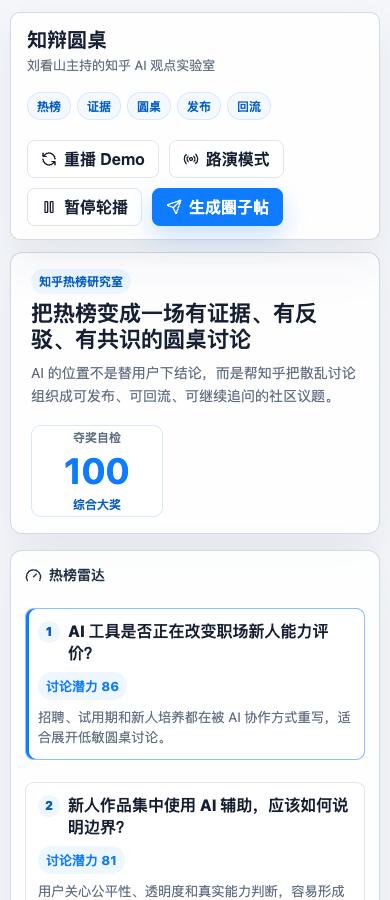
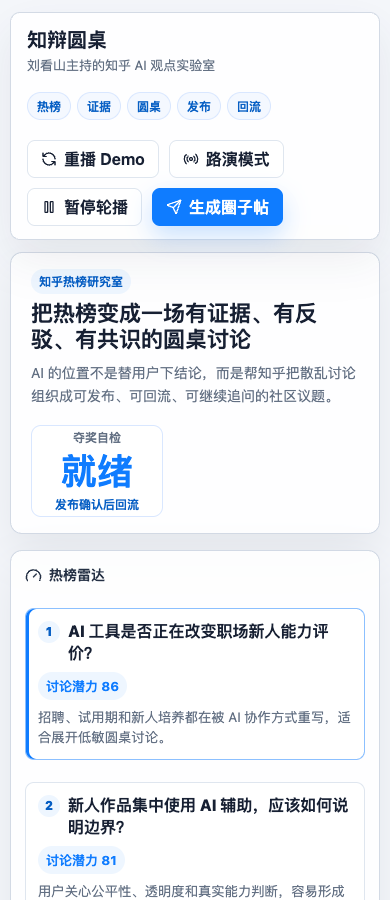
Align publish preview semantics

Changed region(s): [[0.1538, 0.4978, 0.3692, 0.5911]]

diff --git a/src/frontend/main.tsx b/src/frontend/main.tsx
@@ -158,6 +158,10 @@ export function App() {
   }, [data, isStreaming, isPaused]);
 
   const snapshot = data?.snapshot;
+  const readinessValue = !data?.publishResult && snapshot?.publishDraft ? "就绪" : readiness?.report.totalScore ?? "--";
+  const readinessLabel = !data?.publishResult && snapshot?.publishDraft
+    ? "发布确认后回流"
+    : readiness?.report.awardTargets.at(0) ?? "综合大奖";
 
   const confirmAndPublish = React.useCallback(async () => {
     if (!snapshot?.publishDraft) {
@@ -290,8 +294,8 @@ export function App() {
         </div>
         <div className="mission-proof">
           <span>夺奖自检</span>
-          <strong>{readiness?.report.totalScore ?? "--"}</strong>
-          <small>{readiness?.report.awardTargets.at(0) ?? "综合大奖"}</small>
+          <strong>{readinessValue}</strong>
+          <small>{readinessLabel}</small>
         </div>
       </section>
 
@@ -323,7 +327,7 @@ export function App() {
               <span className="stage-kicker">{status}</span>
               <h2>{snapshot?.rewrittenQuestion ?? "正在等待议题重构"}</h2>
             </div>
-            <div className="stage-badge"><Sparkles size={16} /> {snapshot?.stage ?? "radar"}</div>
+            <div className="stage-badge"><Sparkles size={16} /> {stageLabel(snapshot?.stage)}</div>
           </div>
 
           <Roundtable activeSpeaker={active?.speaker ?? "liu"} turns={snapshot?.turns ?? []} />
@@ -408,6 +412,17 @@ function streamLabel(type: string) {
     feedback: "评论回流分析已完成",
   };
   return labels[type] ?? "AI 圆桌运行中";
+}
+
+function stageLabel(stage?: RoundtableSnapshot["stage"]) {
+  const labels: Record<RoundtableSnapshot["stage"], string> = {
+    radar: "热榜雷达",
+    prepare: "议题准备",
+    debate: "圆桌讨论",
+    publish: "发布预览",
+    feedback: "评论回流",
+  };
+  return stage ? labels[stage] : "热榜雷达";
 }
 
 function PanelTitle({ icon, title }: { icon: React.ReactNode; title: string }) {

diff --git a/tests/frontend-smoke.test.tsx b/tests/frontend-smoke.test.tsx
@@ -4,6 +4,13 @@ import { afterEach, describe, expect, it, vi } from "vitest";
 import { runWorkflow } from "../src/frontend/api.js";
 import { App, normalizeSentiment } from "../src/frontend/main.js";
 
+const commentInsight = {
+  sentiment: { support: 60, oppose: 25, neutral: 15 },
+  highQualityComments: ["建议把新人评价拆成三栏。"],
+  newDisputes: ["是否提交 AI 对话记录。"],
+  nextRoundSuggestions: ["继续围绕过程证据讨论。"],
+};
+
 const workflow = {
   topics: [
     {
@@ -26,7 +33,7 @@ const workflow = {
     },
   ],
   snapshot: {
-    stage: "feedback",
+    stage: "publish",
     selectedTopic: {
       id: "topic-1",
       title: "AI 工具是否正在改变职场新人能力评价？",
@@ -73,12 +80,7 @@ const workflow = {
       disclosure: "由 AI 圆桌辅助整理，用户确认发布。",
     },
     titleOptions: ["关于 AI 工具的圆桌讨论"],
-    commentInsight: {
-      sentiment: { support: 60, oppose: 25, neutral: 15 },
-      highQualityComments: ["建议把新人评价拆成三栏。"],
-      newDisputes: ["是否提交 AI 对话记录。"],
-      nextRoundSuggestions: ["继续围绕过程证据讨论。"],
-    },
+    commentInsight: undefined,
     agentBriefs: [
       {
         speaker: "liu",
@@ -129,11 +131,21 @@ const switchedWorkflow = {
 
 const publishedWorkflow = {
   ...workflow,
+  snapshot: {
+    ...workflow.snapshot,
+    stage: "feedback",
+    commentInsight,
+  },
   publishResult,
 };
 
 const switchedPublishedWorkflow = {
   ...switchedWorkflow,
+  snapshot: {
+    ...switchedWorkflow.snapshot,
+    stage: "feedback",
+    commentInsight,
+  },
   publishResult,
 };
 

diff --git a/tests/backend-service.test.ts b/tests/backend-service.test.ts
@@ -44,6 +44,17 @@ describe("backend workflow service", () => {
     );
   });
 
+  it("stops at publish preview when the user has not confirmed publishing", async () => {
+    const service = new RoundtableWorkflowService();
+    const result = await service.runFullWorkflow({ publish: false });
+
+    expect(result.snapshot.stage).toBe("publish");
+    expect(result.snapshot.publishDraft).toBeDefined();
+    expect(result.publishResult).toBeUndefined();
+    expect(result.snapshot.commentInsight).toBeUndefined();
+    expect(result.nodeResults.map((node) => node.id)).not.toContain("comment_feedback");
+  });
+
   it("streams stage events in UI-friendly order", async () => {
     const service = new RoundtableWorkflowService();
     const events = [];

diff --git a/tests/http-server.test.ts b/tests/http-server.test.ts
@@ -227,7 +227,9 @@ describe("backend HTTP server", () => {
     const workflow = await response.json();
 
     expect(response.status).toBe(200);
-    expect(workflow.snapshot.stage).toBe("feedback");
+    expect(workflow.snapshot.stage).toBe("publish");
+    expect(workflow.publishResult).toBeUndefined();
+    expect(workflow.snapshot.commentInsight).toBeUndefined();
     expect(workflow.modelPolicy.roleMap.publish).toBe("deepseek-v4-pro");
     expect(workflow.modelUsages.some((usage: { fallbackUsed: boolean }) => usage.fallbackUsed)).toBe(true);
   });

diff --git a/src/backend/workflow-service.ts b/src/backend/workflow-service.ts
@@ -499,7 +499,7 @@ export class RoundtableWorkflowService {
           finishNode(startNode("publish", "发布节点"), publishResult ? "用户确认后已发布/模拟发布" : "未发布"),
         )
       : drafted;
-    const snapshot = await service.analyzeFeedback(published, publishResult);
+    const snapshot = input.publish ? await service.analyzeFeedback(published, publishResult) : published;
 
     return {
       topics,

diff --git a/docs/championship-redteam.md b/docs/championship-redteam.md
@@ -28,6 +28,7 @@
 | 原始 plan 完成度靠口头说明 | 评委可能追问 60 节点和 30 节方案是否真的完成 | 新增 `docs/original-plan-coverage.md` 逐项映射完成度 |
 | 热榜卡片只像可选但不驱动后端 | 评委点击第二个话题如果内容不变，会破坏“从知乎热榜开始”的可信度 | 前端切换、重播、SSE、发布全部传递 `topicId`，并新增烟测防回归 |
 | 发布确认测试是假阳性 | 旧烟测一开始就给前端 `publishResult`，可能掩盖“未发布前不能互动、确认后才回流”的社区边界 | 烟测改为未发布初态，点击确认后断言调用 `confirm-publish` 且携带当前 snapshot，不再重跑整条 workflow |
+| 未确认发布也提前评论回流 | `publish=false` 如果已经出现 `comment_feedback`，会削弱“用户确认后回流”的闭环叙事 | `runFullWorkflow({ publish:false })` 只到发布预览；确认发布后才进入 `comment_feedback`，并新增回归测试 |
 | 本机演示启动步骤太分散 | 路演前手动开两个终端容易漏开后端或截图失败 | 新增 `npm run demo:serve` 和 `npm run capture:demo:auto`，队友拉仓库后可一键启动/截图 |
 | 前端硬编码 mock 模型策略 | 后端 live-ready 但 UI 不能不改代码切 Kimi/DeepSeek，会显得“只是假演示” | URL 参数和 `VITE_DEMO_*` 环境变量可切 `mock/auto/live`，并覆盖 run + SSE 两条链路 |
 | 私密仓库缺少自动门禁 | 备份存在但 reviewer/队友无法看到每次推送是否仍可运行 | 新增 GitHub Actions `Verify`，推送和 PR 都运行 `npm run verify:judge` |

diff --git a/docs/backend-contract.md b/docs/backend-contract.md
@@ -145,7 +145,9 @@ Live provider 对齐方案里的官方接口规划：
   - 按官方评分维度输出 `HackathonReadinessReport`。
 - `POST /api/workflow/run`
   - body: `{ topicId?: string, publish?: boolean, ringId?: string, modelPolicy?: Partial<ModelPolicy> }`
-  - 返回完整 `{ topics, snapshot, publishResult?, providerMode, modelPolicy, modelUsages, nodeResults }`。
+  - `publish=false` 返回到发布预览阶段；`publish=true` 在 mock-safe 演示中会继续完成发布和评论回流。
+  - live 模式禁止 `publish=true` 绕过用户确认。
+  - 返回 `{ topics, snapshot, publishResult?, providerMode, modelPolicy, modelUsages, nodeResults }`。
   - 同时返回 `providerFailures[]`，用于证明 live API 异常时系统不会中断路演。
 - `GET /api/workflow/stream?topicId=&publish=&ringId=&modelMode=&defaultProvider=&kimiModel=&deepseekFlashModel=&deepseekProModel=&fallbackToMock=`
   - SSE 输出事件：`radar`、`prepare`、`agent_briefing`、`debate_turn`、`debate_done`、`publish`、`feedback`、`error`。
